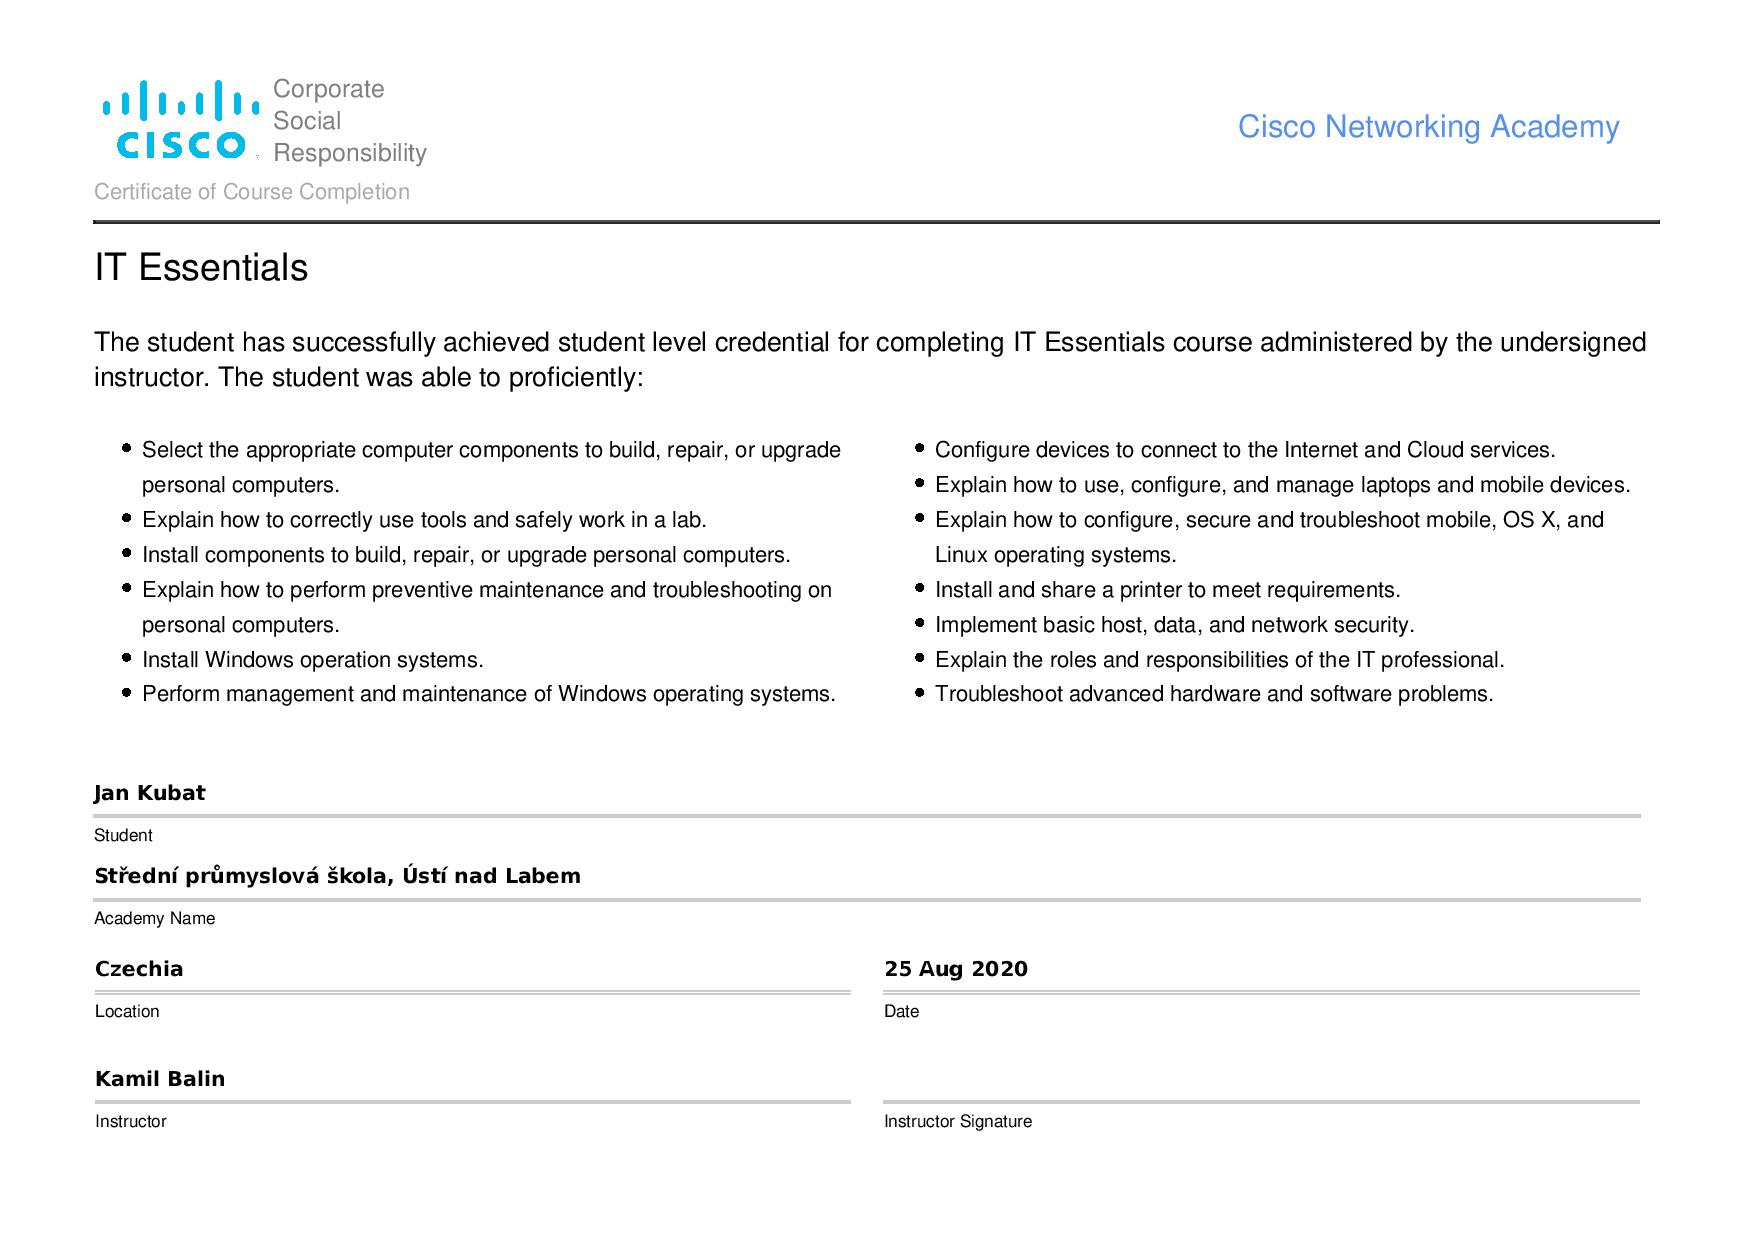
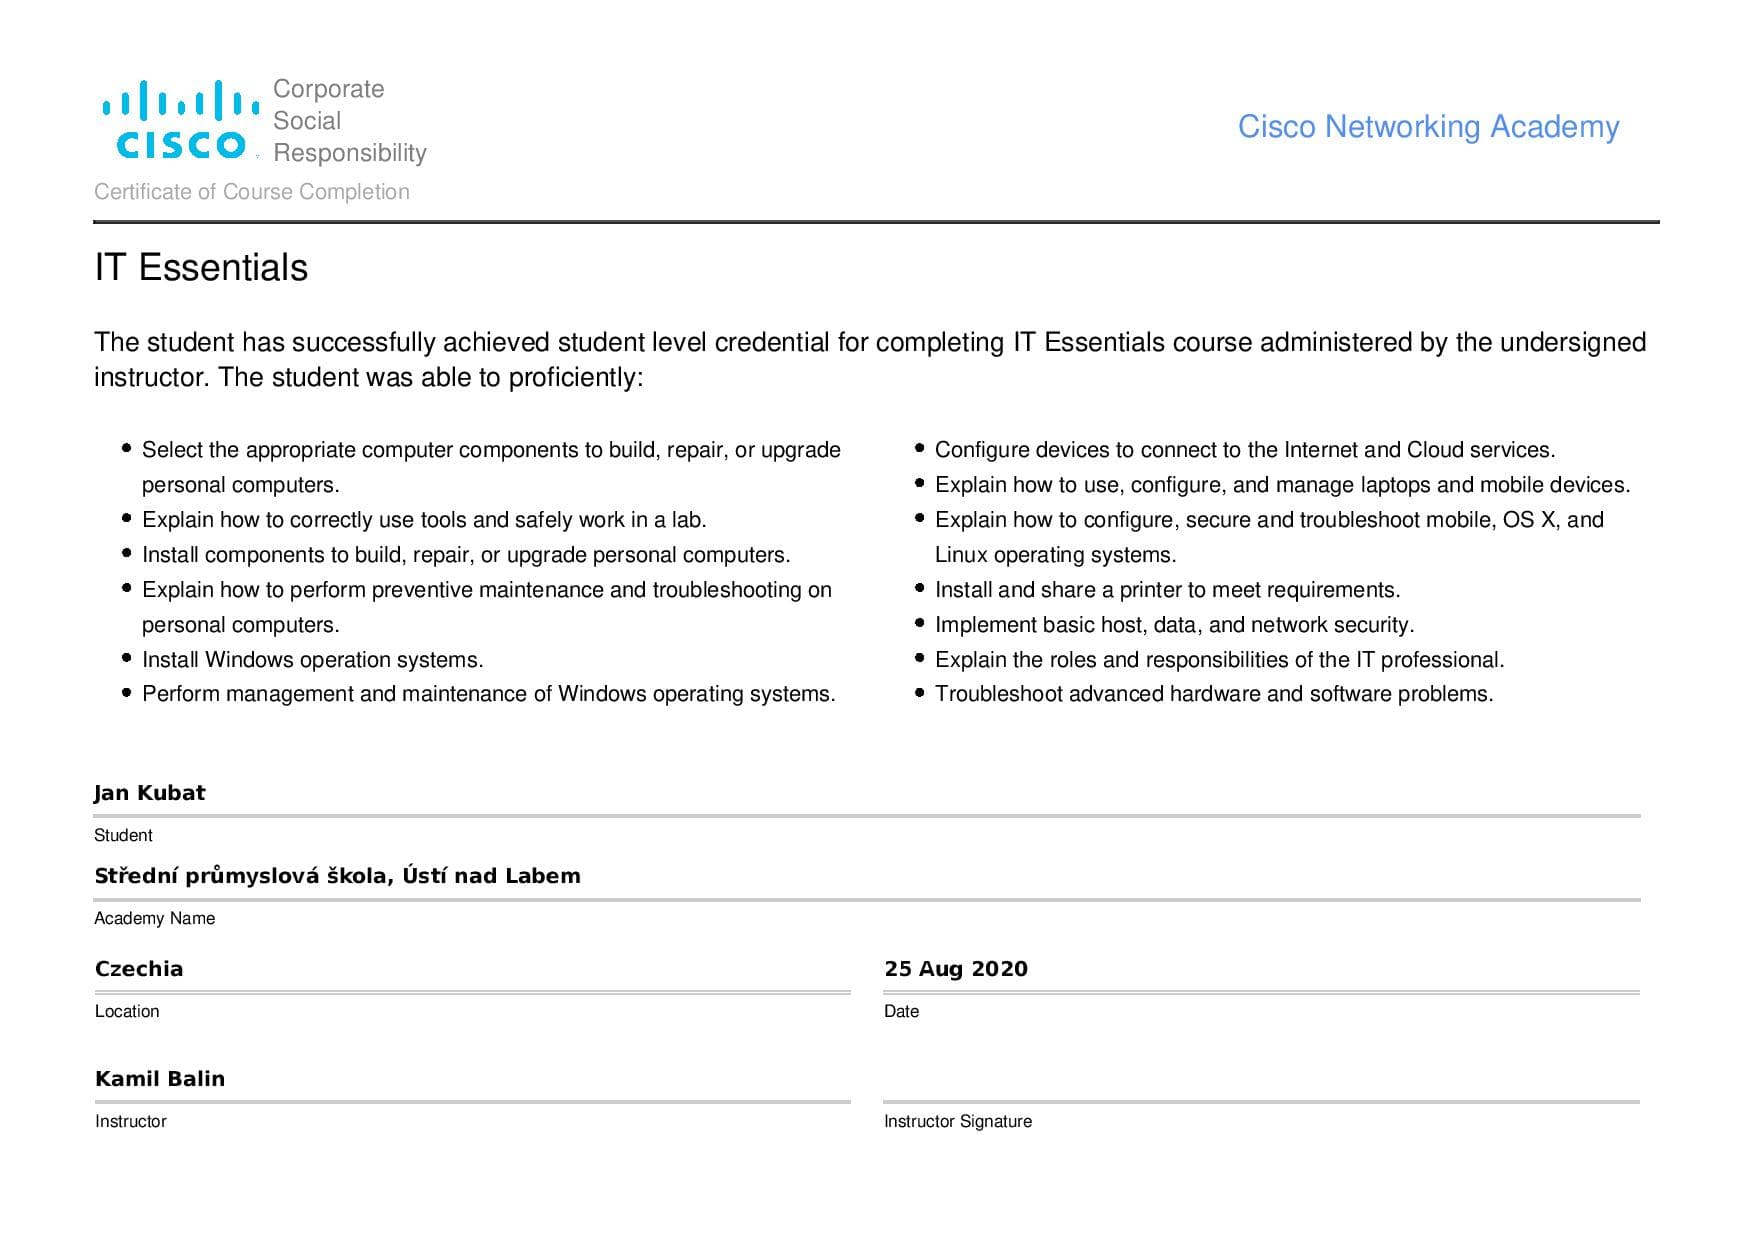
certificates optimalization

Changed region(s): [[0.0924, 0.0919, 0.1231, 0.1226]]

diff --git a/certificates/index.html b/certificates/index.html
@@ -78,7 +78,7 @@ COPYRIGHT Jan Kubat 2020
                                 </div>
                                 <div class="row mt-5">
                                     <div class="col-sm mx-auto"><h3>JS & JQuery</h3><img src="./JS_JQuery.jpg" alt="JSJQ" class="img-fluid"></div>
-                                    <div class="col-sm mx-auto"><h3>Git</h3><img src="./certificate-git-for-beginners.jpg" alt="GIT" class="img-fluid"></div>
+                                    <div class="col-sm mx-auto"><h3>Git</h3><img src="./git.jpg" alt="GIT" class="img-fluid"></div>
                                 </div>
                                 <div class="row mt-5">
                                     <div class="col-sm mx-auto"><h3>Python Essentials</h3><img src="./PCAP.jpg" alt="PCAP" class="img-fluid"></div>
